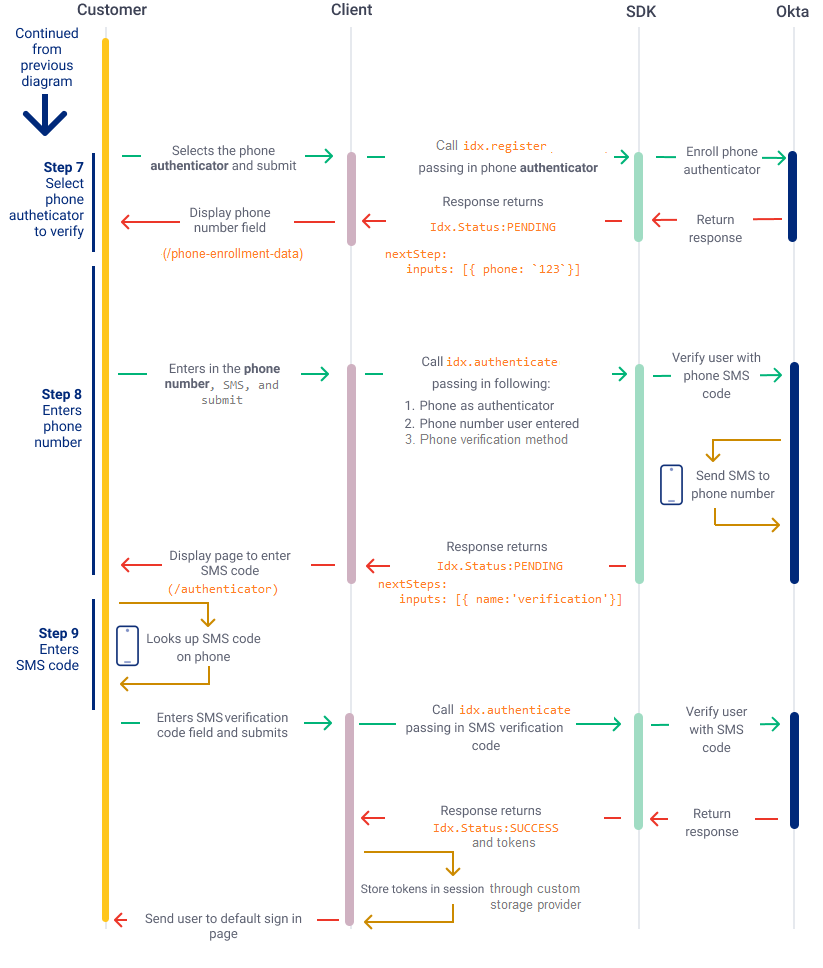
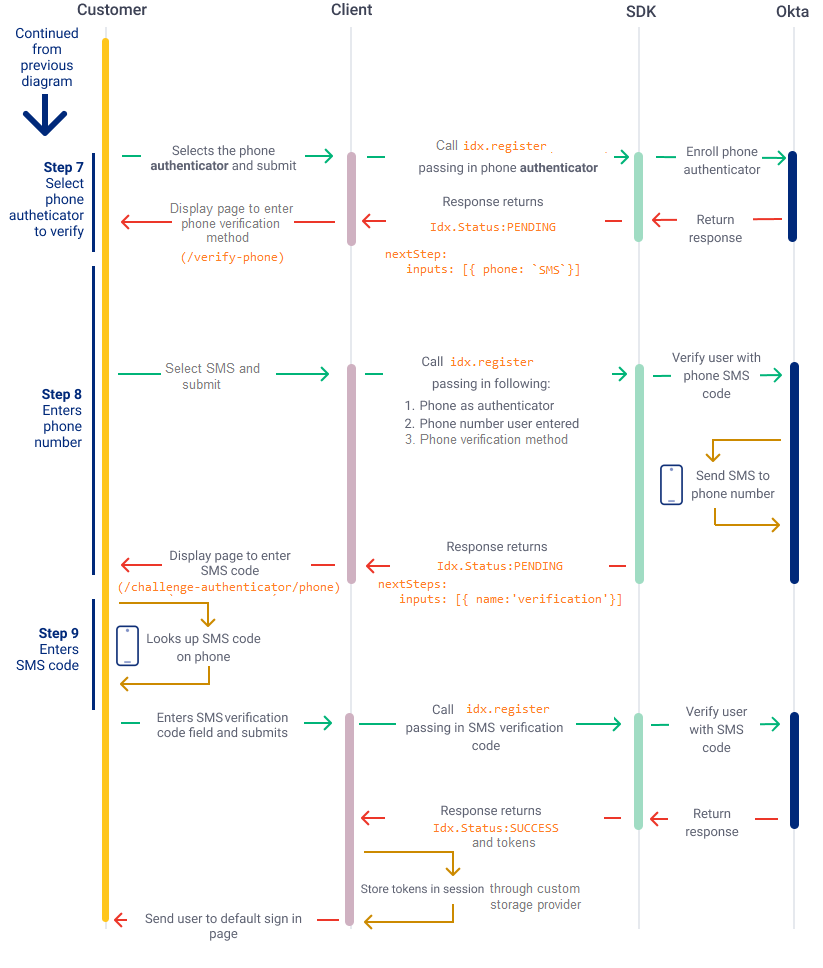
Update images and text as per reviews from Shuo

diff --git a/packages/@okta/vuepress-site/docs/guides/oie-embedded-sdk-use-cases/oie-embedded-sdk-use-case-self-reg/nodejs/integrationsteps.md b/packages/@okta/vuepress-site/docs/guides/oie-embedded-sdk-use-cases/oie-embedded-sdk-use-case-self-reg/nodejs/integrationsteps.md
@@ -30,7 +30,7 @@ router.post('/register', async (req, res, next) => {
 });
 ```
 
-If the org's application is properly configured with multiple factors, `idx.register` returns a response with `Idx.Status:PENDING` and a `nextStep` field requiring an authenticator that needs to be verified. If you completed the steps properly in [Set up your Okta org (for multifactor use cases)](/docs/guides/oie-embedded-common-org-setup/aspnet/main/#set-up-your-okta-org-for-multi-factor-use-cases), the authenticator is the **password** factor. The next steps, as shown in the SDK sample application, are handled by the `handleTransaction.js` page for the subsequent flows.
+If the org's application is properly configured with multiple factors, `idx.register` returns a response with `Idx.Status:PENDING` and a `nextStep` field requiring an authenticator that needs to be verified. If you completed the steps properly in [Set up your Okta org (for multifactor use cases)](/docs/guides/oie-embedded-common-org-setup/aspnet/main/#set-up-your-okta-org-for-multi-factor-use-cases), the authenticator is the **password** factor. The next steps, as shown in the SDK sample application, are handled by `handleTransaction.js` for the subsequent flows.
 
 ```JavaScript
 // registration
@@ -92,13 +92,11 @@ If the request to skip the optional authenticator is successful, the SDK returns
 
 After the user selects the phone authenticator value, and `idx.register` is called with this value, the response returns a status of `Idx.Status:PENDING` and a `nextStep` field requiring phone registration data, including phone number and verification method: SMS or voice. The user is directed to a page to enroll phone data, as shown in the SDK sample application route to `/phone-enrollment-data`.
 
-### Step 8, Option 2: User enters phone number and selects SMS verify method
+### Step 8, Option 2: User selects SMS verify method
 
-When the user enters their phone number and selects SMS to receive the verification code, capture this information and send it to`idx.authenticate`.
+The user can selects SMS or voice verification to receive the phone verification code. Capture this information and send it to`idx.authenticate`. In this use case, use SMS.
 
 The Auth JS SDK sends the phone authenticator data to Okta. Otka processes the request and sends an SMS code to the specified phone number. After the SMS code is sent, Okta sends a response to the SDK, which returns `Idx.Status:PENDING` and the `nextStep` field requiring verification. This status indicates that the user needs to provide the verification code for the phone authenticator, as shown in the SDK sample application route to `/authenticator`.
-
-> **Note:** The Auth JS SDK requires the following phone number format: `{+}{country-code}{area-code}{number}`. For example, `+15556667777`.
 
 ### Step 9, Option 2: User submits SMS verification code
 
